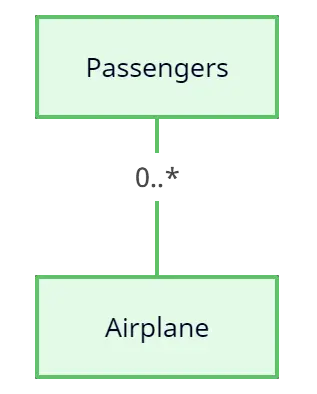
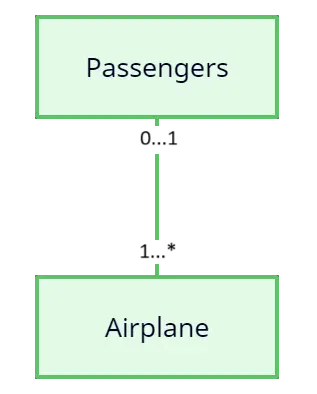
update

Changed region(s): [[0.4259, 0.3046, 0.5678, 0.5178], [0.4259, 0.6091, 0.5678, 0.6701]]

diff --git a/proj_aaa/LoginController.java b/proj_aaa/LoginController.java
@@ -8,6 +8,7 @@ import javafx.scene.control.Label;
 import javafx.scene.control.PasswordField;
 import javafx.scene.control.TextField;
 import javafx.stage.Stage;
+import my_class_aaa.LogIn;
 
 public class LoginController {
 
@@ -48,8 +49,39 @@ public class LoginController {
 
     }
 
+    LogIn lg = new LogIn();
+
     @FXML
     void button_login_action(ActionEvent event) {
+
+        String username = textfield_username.getText();
+        String password;
+        if (checkbox_show_password.isSelected()) {
+            password = textfield_password.getText();
+        } else {
+            password = passwordfield_password.getText();
+        }
+
+        if (lg.isLogInSuccess(username, password)) {
+
+            try {
+
+                Stage stage = (Stage) button_login.getScene().getWindow();
+                Scene scene = FXMLLoader.load(getClass().getResource("ApplicationView.fxml"));
+
+                stage.setScene(scene);
+                stage.show();
+
+            } catch (Exception e) {
+                // TODO: handle exception
+            }
+
+        } else {
+
+            label_status.setText("Login Fail!");
+            label_status.setStyle("-fx-text-fill: red");
+
+        }
 
     }
 

diff --git a/proj_aaa/my_class_aaa/StringValidation_V2.java b/proj_aaa/my_class_aaa/StringValidation_V2.java
@@ -1,0 +1,39 @@
+package my_class_aaa;
+
+public class StringValidation_V2 extends StringValidation_V1 {
+
+    public boolean isStringHasUpper(String string) {
+        return string.matches(".*[A-Z].*");
+    }
+
+    public boolean isStringHasLower(String string) {
+        return string.matches(".*[a-z].*");
+    }
+
+    public boolean isStringHasNumber(String string) {
+        return string.matches(".*[0-9].*");
+    }
+
+    public boolean isStringHasSpecialChar(String string) {
+        return string.matches(".*[!@#$%^&*+-/()*\\[\\]].*");
+    }
+
+    public boolean isStringHasSpace(String string) {
+        return string.matches(".*[ ].*");
+    }
+
+    public boolean isStringHasTwoLower(String string) {
+
+        int count = 0;
+
+        for (char c : string.toCharArray()) {
+            if (Character.isLowerCase(c)) {
+                count++;
+            }
+        }
+
+        return true ? count >= 2 : false;
+
+    }
+
+}

diff --git a/proj_aaa/Main.java b/proj_aaa/Main.java
@@ -11,11 +11,11 @@ public class Main extends Application {
     @Override
     public void start(Stage stage) throws Exception {
 
-        // Scene scene = FXMLLoader.load(getClass().getResource("LoginView.fxml"));
+        Scene scene = FXMLLoader.load(getClass().getResource("LoginView.fxml"));
         // Scene scene =
         // FXMLLoader.load(getClass().getResource("ApplicationView.fxml"));
 
-        Scene scene = FXMLLoader.load(getClass().getResource("RegisterView.fxml"));
+        // Scene scene = FXMLLoader.load(getClass().getResource("RegisterView.fxml"));
         stage.setScene(scene);
         stage.show();
     }

diff --git a/proj_aaa/my_class_aaa/LogIn.java b/proj_aaa/my_class_aaa/LogIn.java
@@ -1,0 +1,29 @@
+package my_class_aaa;
+
+import java.util.Arrays;
+
+public class LogIn {
+
+    String[][] credentials;
+
+    public LogIn() {
+
+        DatabaseManagement db = new DatabaseManagement();
+        db.loadDB("database.csv");
+        credentials = db.getDB();
+
+        // System.out.println(Arrays.deepToString(credentials[0]));
+
+    }
+
+    public boolean isLogInSuccess(String username, String password) {
+
+        for (String[] c : credentials) {
+            if (c[0].equals(username) && c[1].equals(password)) {
+                return true;
+            }
+        }
+
+        return false;
+    }
+}

diff --git a/TIP.java b/TIP.java
@@ -1,0 +1,31 @@
+class Animal {
+    String name;
+
+    Animal(String name) {
+        this.name = name;
+    }
+
+    void printName() {
+        System.out.println("Animal name: " + name);
+    }
+}
+
+class Dog extends Animal {
+    Dog() {
+        super("");
+    } // Provide default constructor
+
+    @Override
+    void printName() {
+        super.printName();
+        System.out.println("Dog name: " + name);
+    }
+}
+
+public class TIP {
+    public static void main(String[] args) {
+        Dog dog = new Dog();
+        dog.name = "Buddy";
+        dog.printName();
+    }
+}

diff --git a/proj_aaa/Test.java b/proj_aaa/Test.java
@@ -1,12 +1,14 @@
 import java.util.Arrays;
 
-import my_class_aaa.DatabaseManagement;
-import my_class_aaa.StringValidation_V1;
+import my_class_aaa.LogIn;
+import my_class_aaa.StringValidation_V2;
 
 public class Test {
     public static void main(String[] args) {
 
-        System.out.println(new StringValidation_V1().isStringLesser("123456", 10));
+        LogIn lg = new LogIn();
+
+        System.out.println(lg.isLogInSuccess("admin", "admin"));
 
     }
 }

diff --git a/dir_001_book/dir_001_book/chapter_014/figure.md b/dir_001_book/dir_001_book/chapter_014/figure.md
@@ -1,0 +1,24 @@
+```mermaid
+
+classDiagram
+    class Vehicle {
+        <<abstract>>
+        +start() void
+        +stop() void
+    }
+
+    class Car {
+        +start() void
+        +stop() void
+    }
+
+    class Motorcycle {
+        +start() void
+        +stop() void
+    }
+
+    Vehicle <|-- Car
+    Vehicle <|-- Motorcycle
+
+
+```
